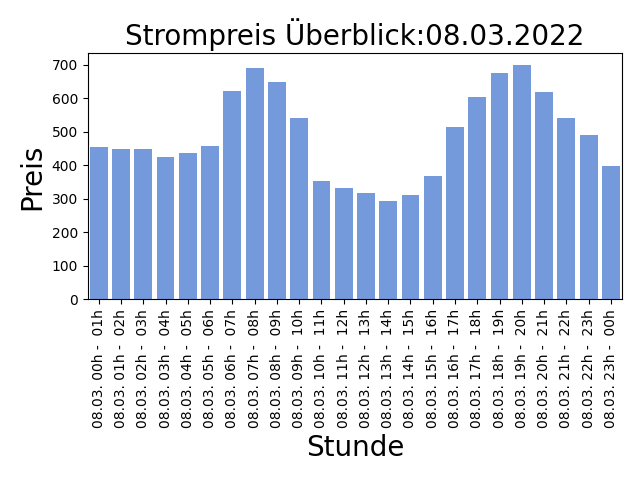
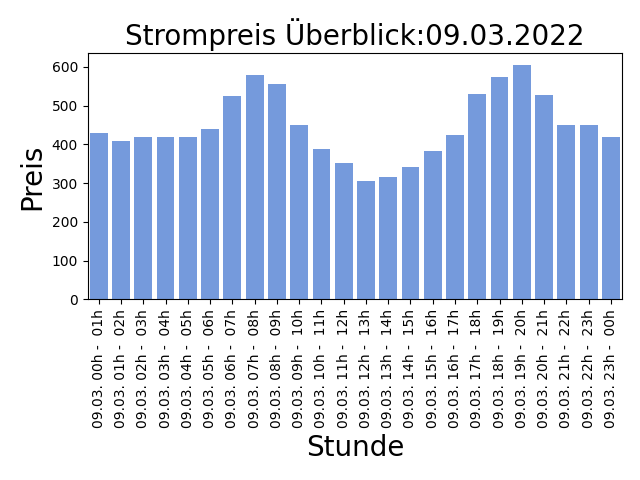
AUTOMATIC UPDATE PRICE LIST: 2022-03-08-14:30:06

diff --git a/README.md b/README.md
@@ -1,5 +1,5 @@
 
-## Strompreise für den 08.03.2022
+## Strompreise für den 09.03.2022
 
 Niedrige Preise deuten auf viel Sonnen und Windenergieerzeugung hin, ein hoher Anteil an erneuerbaren Energien bedeuted weniger CO2 Verbrauch!
 
@@ -7,31 +7,31 @@ Niedrige Preise deuten auf viel Sonnen und Windenergieerzeugung hin, ein hoher A
 
 | Stunde | Preis in Eur/MWh |
 |---|---|
-| 08.03. 00h -  01h | 456.05 | 
-| 08.03. 01h -  02h | 449.5 | 
-| 08.03. 02h -  03h | 449.5 | 
-| 08.03. 03h -  04h | 424.88 | 
-| 08.03. 04h -  05h | 437.51 | 
-| 08.03. 05h -  06h | 457.57 | 
-| 08.03. 06h -  07h | 622.3 | 
-| 08.03. 07h -  08h | 690.0 | 
-| 08.03. 08h -  09h | 650.0 | 
-| 08.03. 09h -  10h | 541.51 | 
-| 08.03. 10h -  11h | 353.31 | 
-| 08.03. 11h -  12h | 333.83 | 
-| 08.03. 12h -  13h | 316.52 | 
-| **08.03. 13h -  14h** | **294.77** | 
-| 08.03. 14h -  15h | 310.6 | 
-| 08.03. 15h -  16h | 366.99 | 
-| 08.03. 16h -  17h | 514.31 | 
-| 08.03. 17h -  18h | 603.08 | 
-| 08.03. 18h -  19h | 674.93 | 
-| 08.03. 19h -  20h | 700.0 | 
-| 08.03. 20h -  21h | 619.92 | 
-| 08.03. 21h -  22h | 542.9 | 
-| 08.03. 22h -  23h | 492.05 | 
-| 08.03. 23h -  00h | 399.73 | 
+| 09.03. 00h -  01h | 430.07 | 
+| 09.03. 01h -  02h | 408.91 | 
+| 09.03. 02h -  03h | 418.38 | 
+| 09.03. 03h -  04h | 420.03 | 
+| 09.03. 04h -  05h | 420.03 | 
+| 09.03. 05h -  06h | 440.0 | 
+| 09.03. 06h -  07h | 523.76 | 
+| 09.03. 07h -  08h | 579.45 | 
+| 09.03. 08h -  09h | 554.76 | 
+| 09.03. 09h -  10h | 449.99 | 
+| 09.03. 10h -  11h | 389.0 | 
+| 09.03. 11h -  12h | 350.83 | 
+| **09.03. 12h -  13h** | **305.11** | 
+| 09.03. 13h -  14h | 316.75 | 
+| 09.03. 14h -  15h | 341.86 | 
+| 09.03. 15h -  16h | 382.44 | 
+| 09.03. 16h -  17h | 425.09 | 
+| 09.03. 17h -  18h | 529.43 | 
+| 09.03. 18h -  19h | 574.93 | 
+| 09.03. 19h -  20h | 605.0 | 
+| 09.03. 20h -  21h | 528.03 | 
+| 09.03. 21h -  22h | 448.75 | 
+| 09.03. 22h -  23h | 449.06 | 
+| 09.03. 23h -  00h | 418.45 | 
 
 Preise der EPEX Spot ® Strombörse (neue Preise werden täglich um 14:00 veröffentlicht für den kompletten nächsten Tag).
 
-letzte Aktualisierung:07.03.2022 14:30
+letzte Aktualisierung:08.03.2022 14:30
